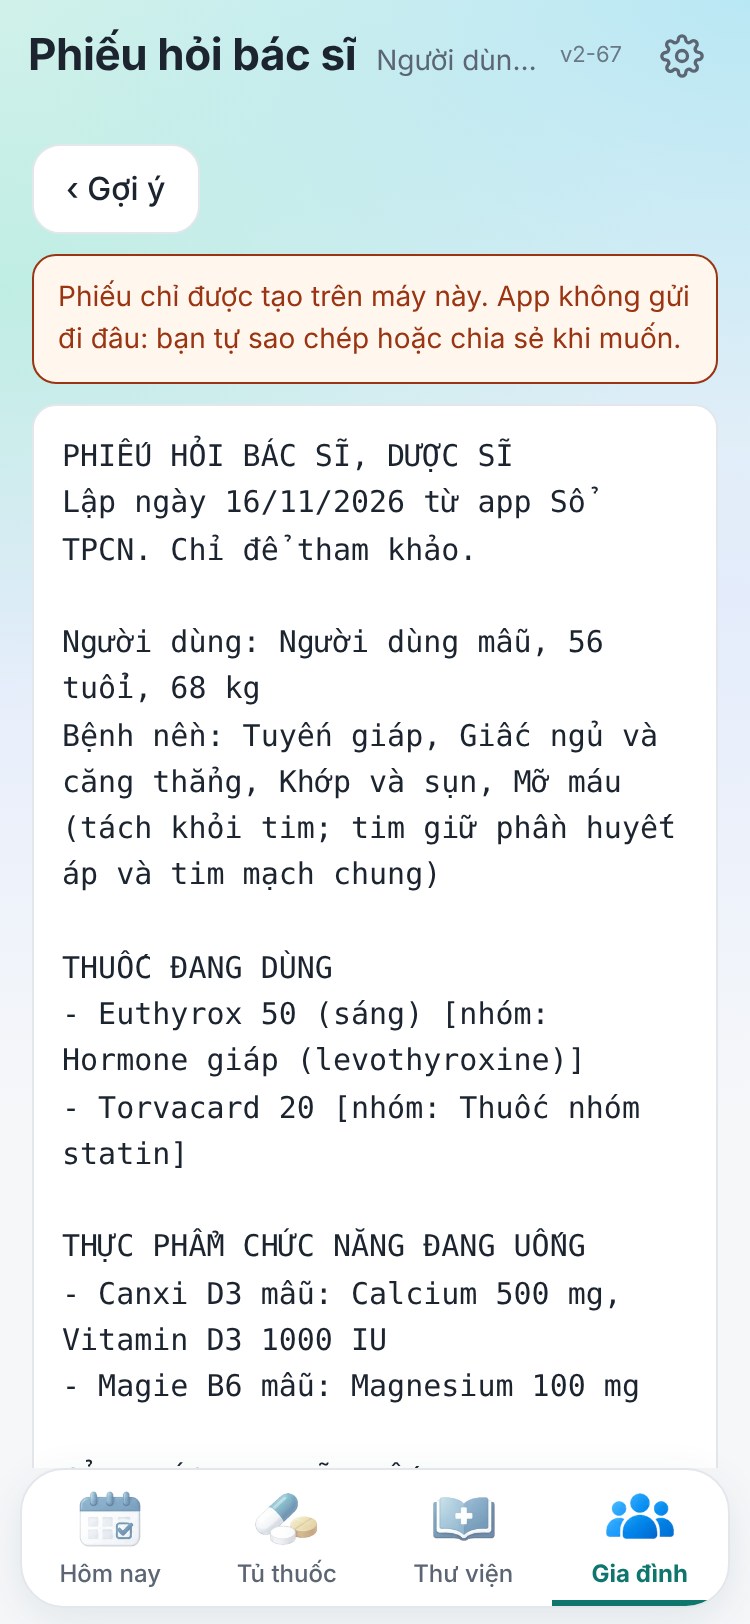
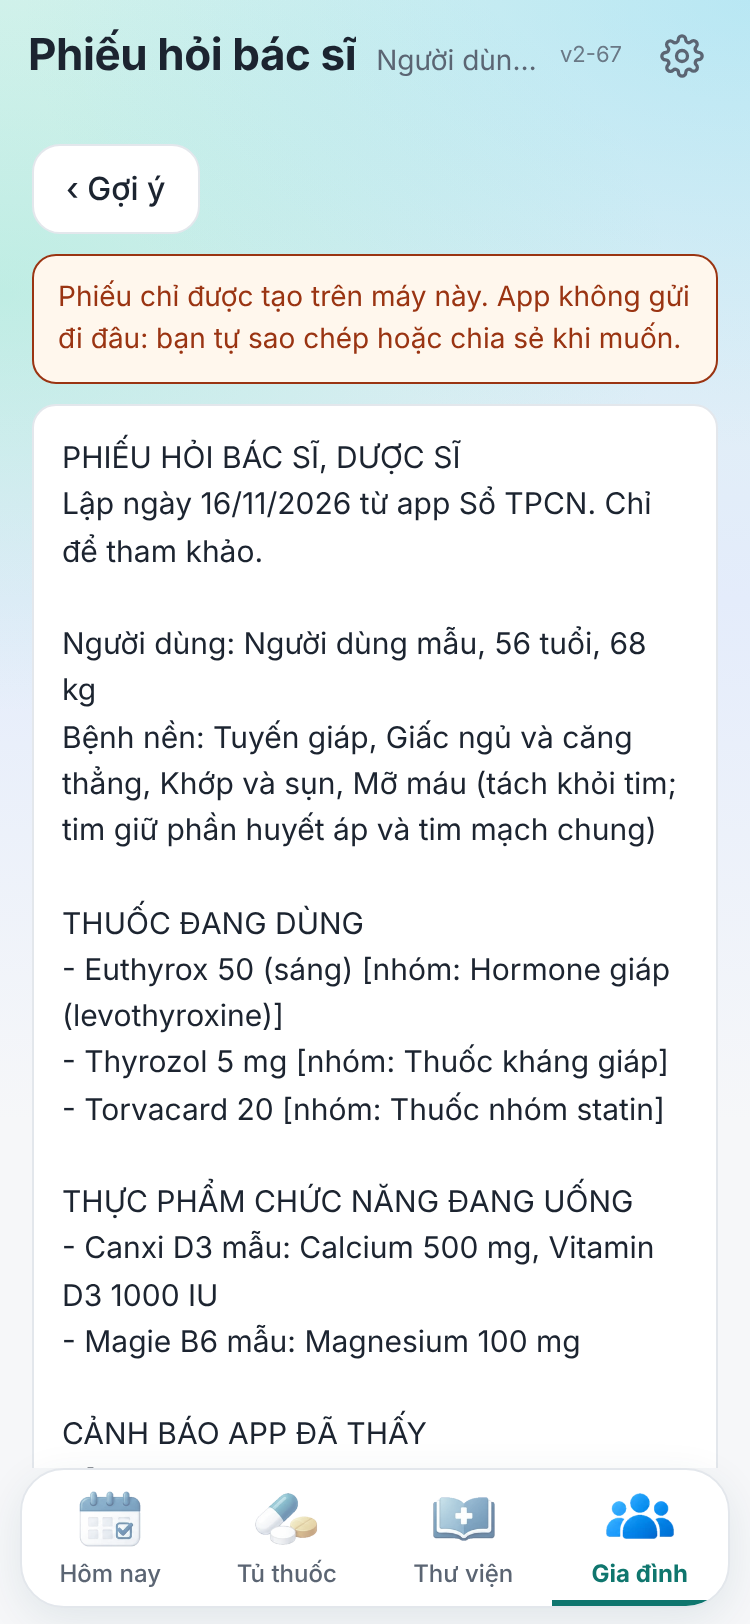
Phiếu hỏi bác sĩ dùng phông chữ của app, dọn ảnh thử, cập nhật ảnh gợi ý, phiếu, theo dõi (v2-67)
Claude-Session: https://claude.ai/code/session_01SSfFD4fcKWdnYujWfeTwik

diff --git a/docs/index.html b/docs/index.html
@@ -309,7 +309,7 @@ nav button{gap:3px}
 .bdp-t{display:flex;flex-wrap:wrap;gap:6px;align-items:center;margin:6px 0}
 .bdp-t .tb{margin:0}
 .bdp-g{width:100%;text-align:left;background:var(--card);border:1px solid var(--line);border-radius:12px;padding:10px 12px;margin:6px 0;font:inherit;color:var(--ink);cursor:pointer}
-.phieu{white-space:pre-wrap;overflow-wrap:anywhere;font:15px/1.55 ui-monospace,Menlo,Consolas,monospace;background:var(--card);border:1px solid var(--line);border-radius:12px;padding:14px;user-select:text}
+.phieu{white-space:pre-wrap;overflow-wrap:anywhere;font-size:15px;line-height:1.55;background:var(--card);border:1px solid var(--line);border-radius:12px;padding:14px;user-select:text}
 .tdsvg{width:100%;height:auto;display:block;max-width:420px}
 .tdlog{margin-top:8px}
 .gfoot{margin:18px 0 6px;font-size:14px;color:var(--mute);text-align:center}
